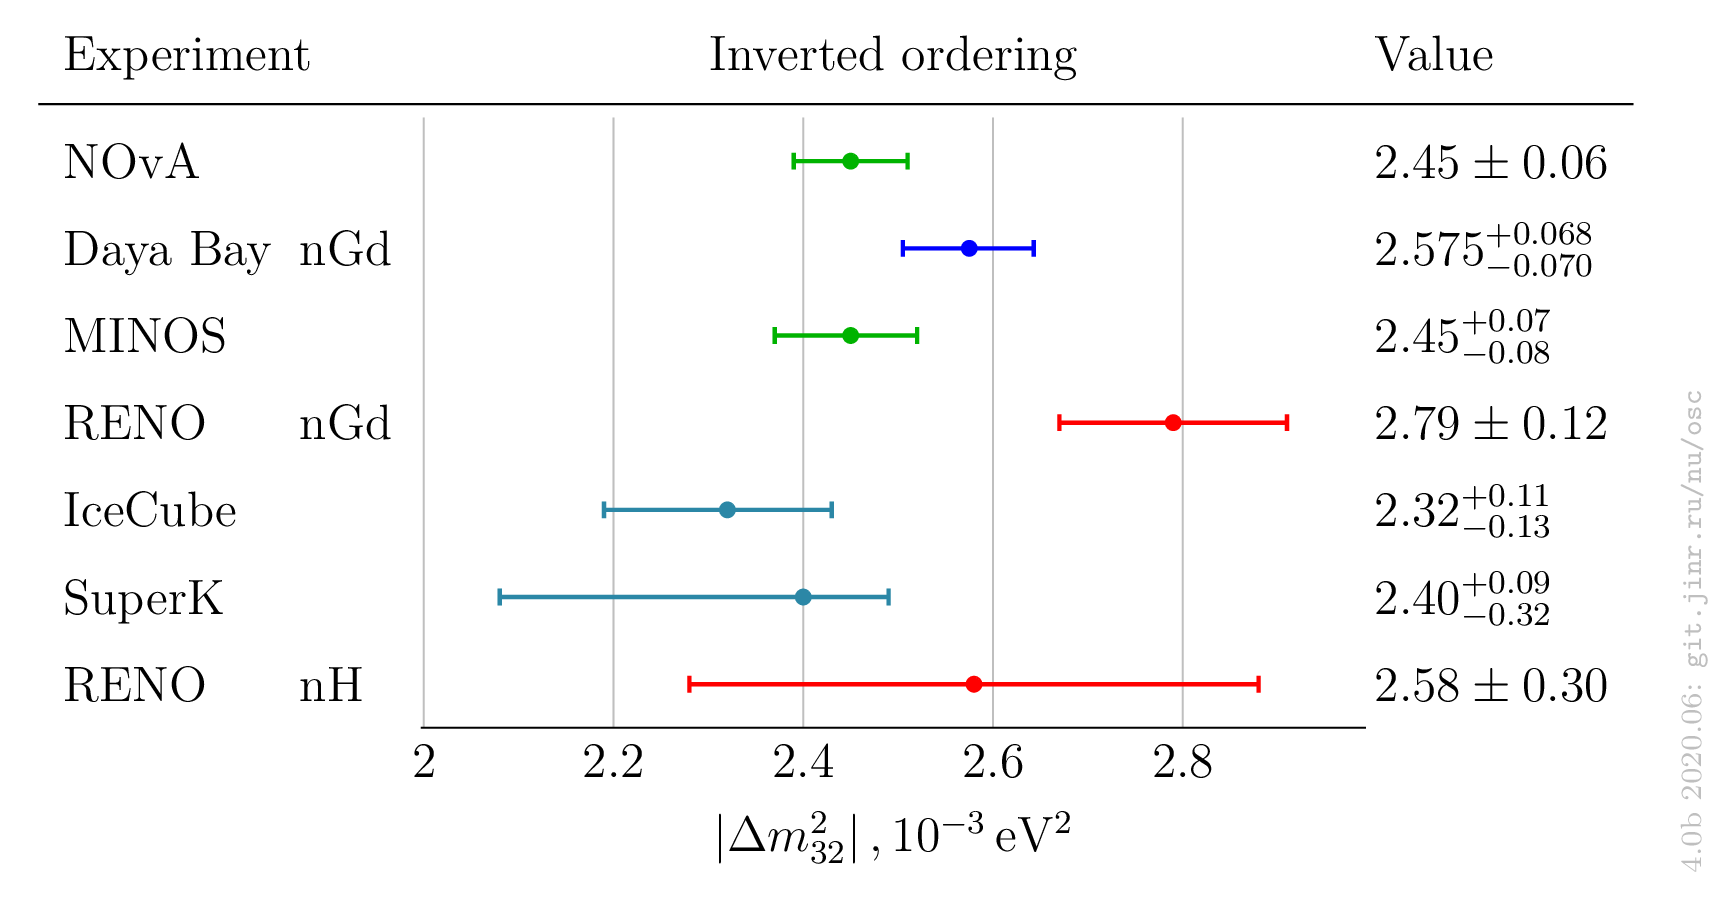
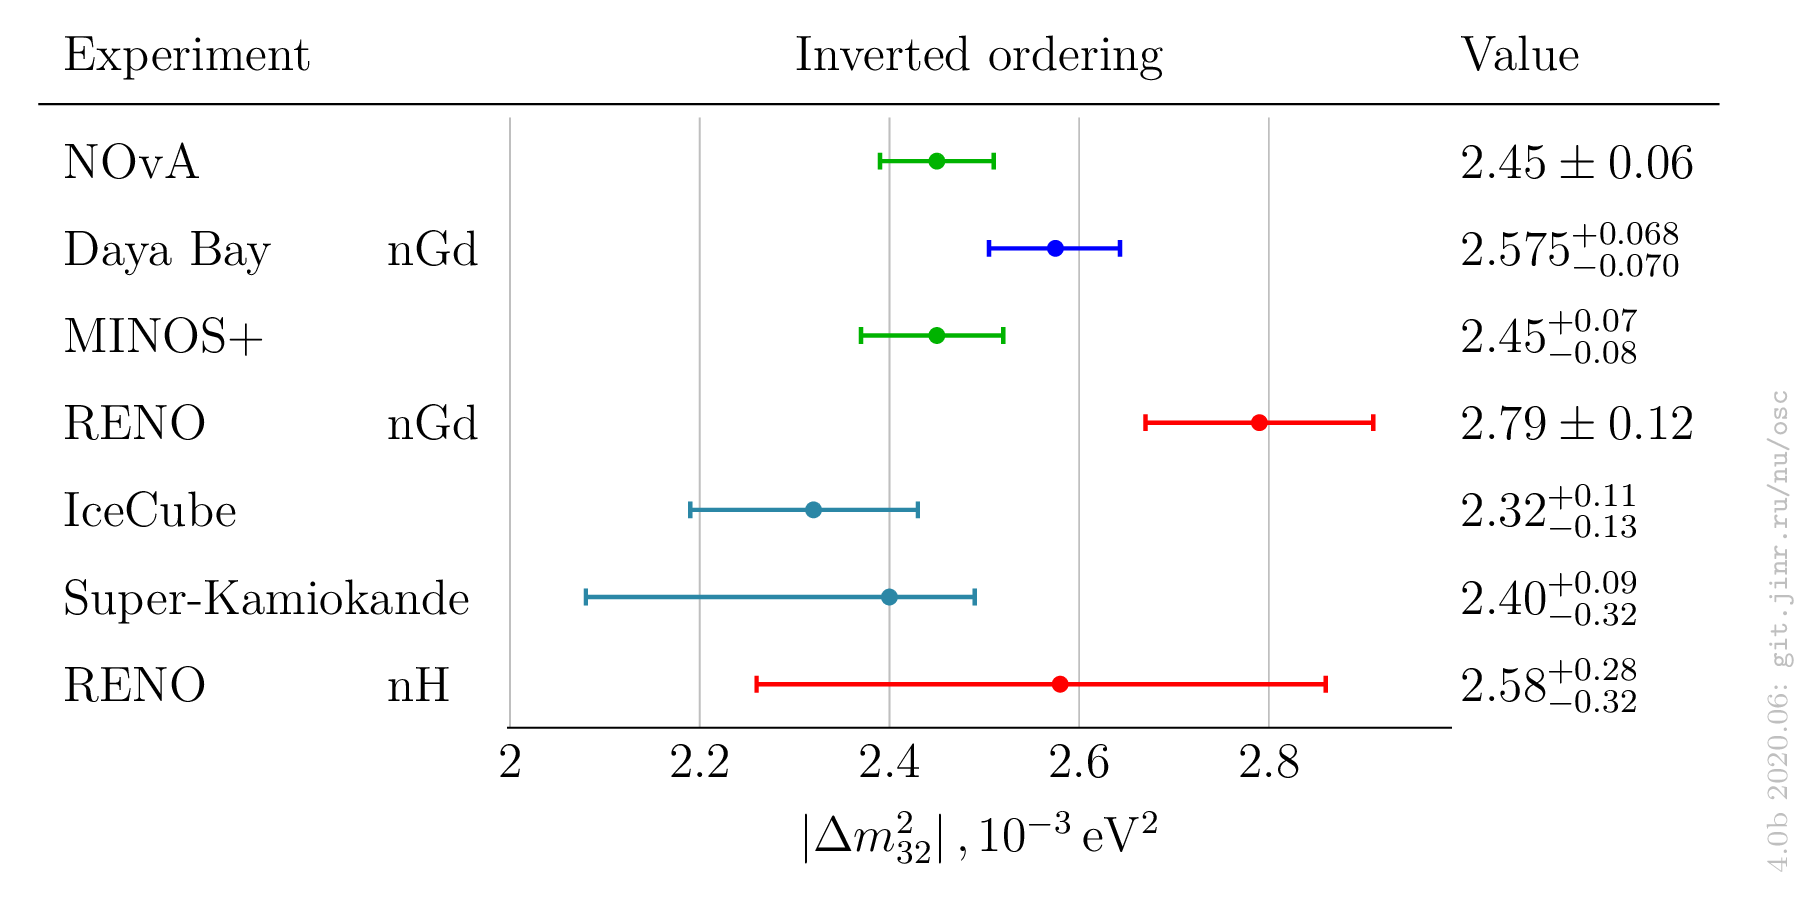
Fixes, thanks, Beda

diff --git a/samples/theta13/v4.0-neutrino2020/styles.tex b/samples/theta13/v4.0-neutrino2020/styles.tex
@@ -1,0 +1,24 @@
+\providecommand*\ebarstyle{%
+  \tikzset{%
+    common/.style={line width=\clinewidth},%
+    reactor/.style={common,red,mark color=red},%
+    dayabay_ngd/.style={common,blue},%
+    dayabay_nh/.style={dayabay},%
+    dayabay/.style={common,blue},%
+    reno_ngd/.style={reactor},
+    reno_nh/.style={reactor},
+    doublechooz/.style={reactor},
+    acc/.style={common,black!30!green},
+    t2k/.style={acc}
+  }%
+}%
+\providecommand\ScatterClasses{%
+    reactor={reactor},%
+    dayabay_ngd={dayabay_ngd},%
+    reno_ngd={reno_ngd},%
+    reno_nh={reno_nh},%
+    doublechooz={doublechooz},%
+    acc={acc},%
+    t2k={t2k}
+}%
+

diff --git a/samples/theta13/v4.0-neutrino2020/theta13.tex b/samples/theta13/v4.0-neutrino2020/theta13.tex
@@ -3,6 +3,7 @@
 
 \input{header.tex}
 \input{meta.tex}
+\input{styles.tex}
 
 \begin{document}
 \providecommand\ComparisonColumns{name,notes,value,result}%
@@ -17,29 +18,6 @@
 \providecommand*\symerrstyle{}%
 \providecommand*\precision{\thisrow{precision}}%
 \providecommand*\plotaverage{}%
-\providecommand*\ebarstyle{%
-  \tikzset{%
-    common/.style={line width=\clinewidth},%
-    reactor/.style={common,red,mark color=red},%
-    dayabay_ngd/.style={common,blue},%
-    dayabay_nh/.style={dayabay},%
-    dayabay/.style={common,blue},%
-    reno_ngd/.style={reactor},
-    reno_nh/.style={reactor},
-    doublechooz/.style={reactor},
-    acc/.style={common,black!30!green},
-    t2k/.style={acc}
-  }%
-}%
-\providecommand\ScatterClasses{%
-    reactor={reactor},%
-    dayabay_ngd={dayabay_ngd},%
-    reno_ngd={reno_ngd},%
-    reno_nh={reno_nh},%
-    doublechooz={doublechooz},%
-    acc={acc},%
-    t2k={t2k}
-}%
 {\large%
 \input{theta13_body.tex}%
 }%

diff --git a/samples/dm32/v4.0-neutrino2020/maketable.py b/samples/dm32/v4.0-neutrino2020/maketable.py
@@ -51,7 +51,7 @@ def postprocess_amplitude13(entry):
     if entry['name']=='Double CHOOZ':
         entry['notes']=''
 
-    slist = [ entry['name'].lower().replace(' ', '') ]
+    slist = [ entry['name'].lower().replace(' ', '').replace('-', '').replace('+', '') ]
     if entry['notes']:
         slist.append(entry['notes'].lower())
     entry['style']='_'.join(slist)
@@ -61,7 +61,7 @@ def postprocess_splitting_large(entry):
     if entry['name']=='Double CHOOZ':
         entry['notes']=''
 
-    slist = [ entry['name'].lower().replace(' ', '') ]
+    slist = [ entry['name'].lower().replace(' ', '').replace('-', '').replace('+', '') ]
     if entry['notes']:
         slist.append(entry['notes'].lower())
     entry['style']='_'.join(slist)
@@ -171,6 +171,10 @@ def merge_leftright(unc):
     left, right = unc['left'], unc['right']
     return 0.5*(left+right)
 
+def merge_statsyst(stat, syst, leftright):
+    stat, syst = stat[leftright], syst[leftright]
+    return (stat**2 + syst**2)**0.5
+
 def get_uncertainty(val, unc):
     if isinstance(unc, float):
         return val-unc, val+unc
@@ -207,9 +211,9 @@ def get_uncertainty(val, unc):
         pass
     else:
         if isinstance(stat, dict) and isinstance(syst, dict):
-            stat, syst = merge_leftright(stat), merge_leftright(syst)
-        if not isinstance(stat, float) or not isinstance(syst, float):
-            raise Exception(f'Invalid stat/syst uncertainties: {stat!s}, {syst!s}')
+            left = merge_statsyst(stat, syst, 'left')
+            right = merge_statsyst(stat, syst, 'right')
+            return val-left, val+right
 
         unc = (stat**2 + syst**2)**0.5
         return val-unc, val+unc

diff --git a/samples/dm32/v4.0-neutrino2020/styles.tex b/samples/dm32/v4.0-neutrino2020/styles.tex
@@ -22,7 +22,7 @@
     t2k/.style={acc},
     minos/.style={acc},
     nova/.style={acc},
-    superk/.style={atm},
+    superkamiokande/.style={atm},
     icecube/.style={atm}
   }%
 }%
@@ -37,6 +37,6 @@
     nova={nova},
     minos={minos},
     icecube={icecube},
-    superk={superk}
+    superkamiokande={superkamiokande}
 }%
 

diff --git a/samples/dm32/v4.0-neutrino2020/dm32_IO.tex b/samples/dm32/v4.0-neutrino2020/dm32_IO.tex
@@ -10,7 +10,7 @@
 \providecommand*\datafile{dm32_IO.dat}%
 \providecommand*\xlabel{$\left|\Delta m^2_{32}\right|, \SI{e-3}{\eV\squared}$}%
 \providecommand*\xtoplabel{Inverted ordering}%
-\providecommand*\NotesOffset{\hskip-15pt}
+\providecommand*\NotesOffset{\hskip-32pt}
 {\large%
 \input{dm32_body.tex}%
 }%

diff --git a/samples/dm32/v4.0-neutrino2020/dm32_NO.tex b/samples/dm32/v4.0-neutrino2020/dm32_NO.tex
@@ -10,7 +10,7 @@
 \providecommand*\datafile{dm32_NO.dat}%
 \providecommand*\xlabel{$\left|\Delta m^2_{32}\right|, \SI{e-3}{\eV\squared}$}%
 \providecommand*\xtoplabel{Normal ordering}%
-\providecommand*\NotesOffset{\hskip-15pt}
+\providecommand*\NotesOffset{\hskip-34pt}
 {\large%
 \input{dm32_body.tex}%
 }%

diff --git a/samples/dm32/v4.0-neutrino2020/dm32_body.tex b/samples/dm32/v4.0-neutrino2020/dm32_body.tex
@@ -92,7 +92,7 @@
       \pgfkeyssetvalue{/pgfplots/table/@cell content}{}%
       \fi%
     },%
-    column type={>{\hskip-5pt}c}
+    column type={>{\hskip-15pt}c}
   },%
   columns/result/.style = {string type, column name = \translate{Value}, column type={>{\hskip-10pt}l}},%
 ]{\data}%

diff --git a/samples/theta13/v4.0-neutrino2020/theta13_body.tex b/samples/theta13/v4.0-neutrino2020/theta13_body.tex
@@ -14,7 +14,7 @@
 \providecommand*\clinewidth{0.5pt}%
 \providecommand*\capsize{1.5pt}%
 \providecommand*\plotwidth{9.5cm}%
-\providecommand*\xlabel{$\sin^2 2\theta_{13}$}%
+\providecommand*\xlabel{x label}%
 \providecommand*\xtoplabel{}%
 \providecommand*\NameNotes{}%
 \providecommand*\symerrstyle{\scriptstyle}%